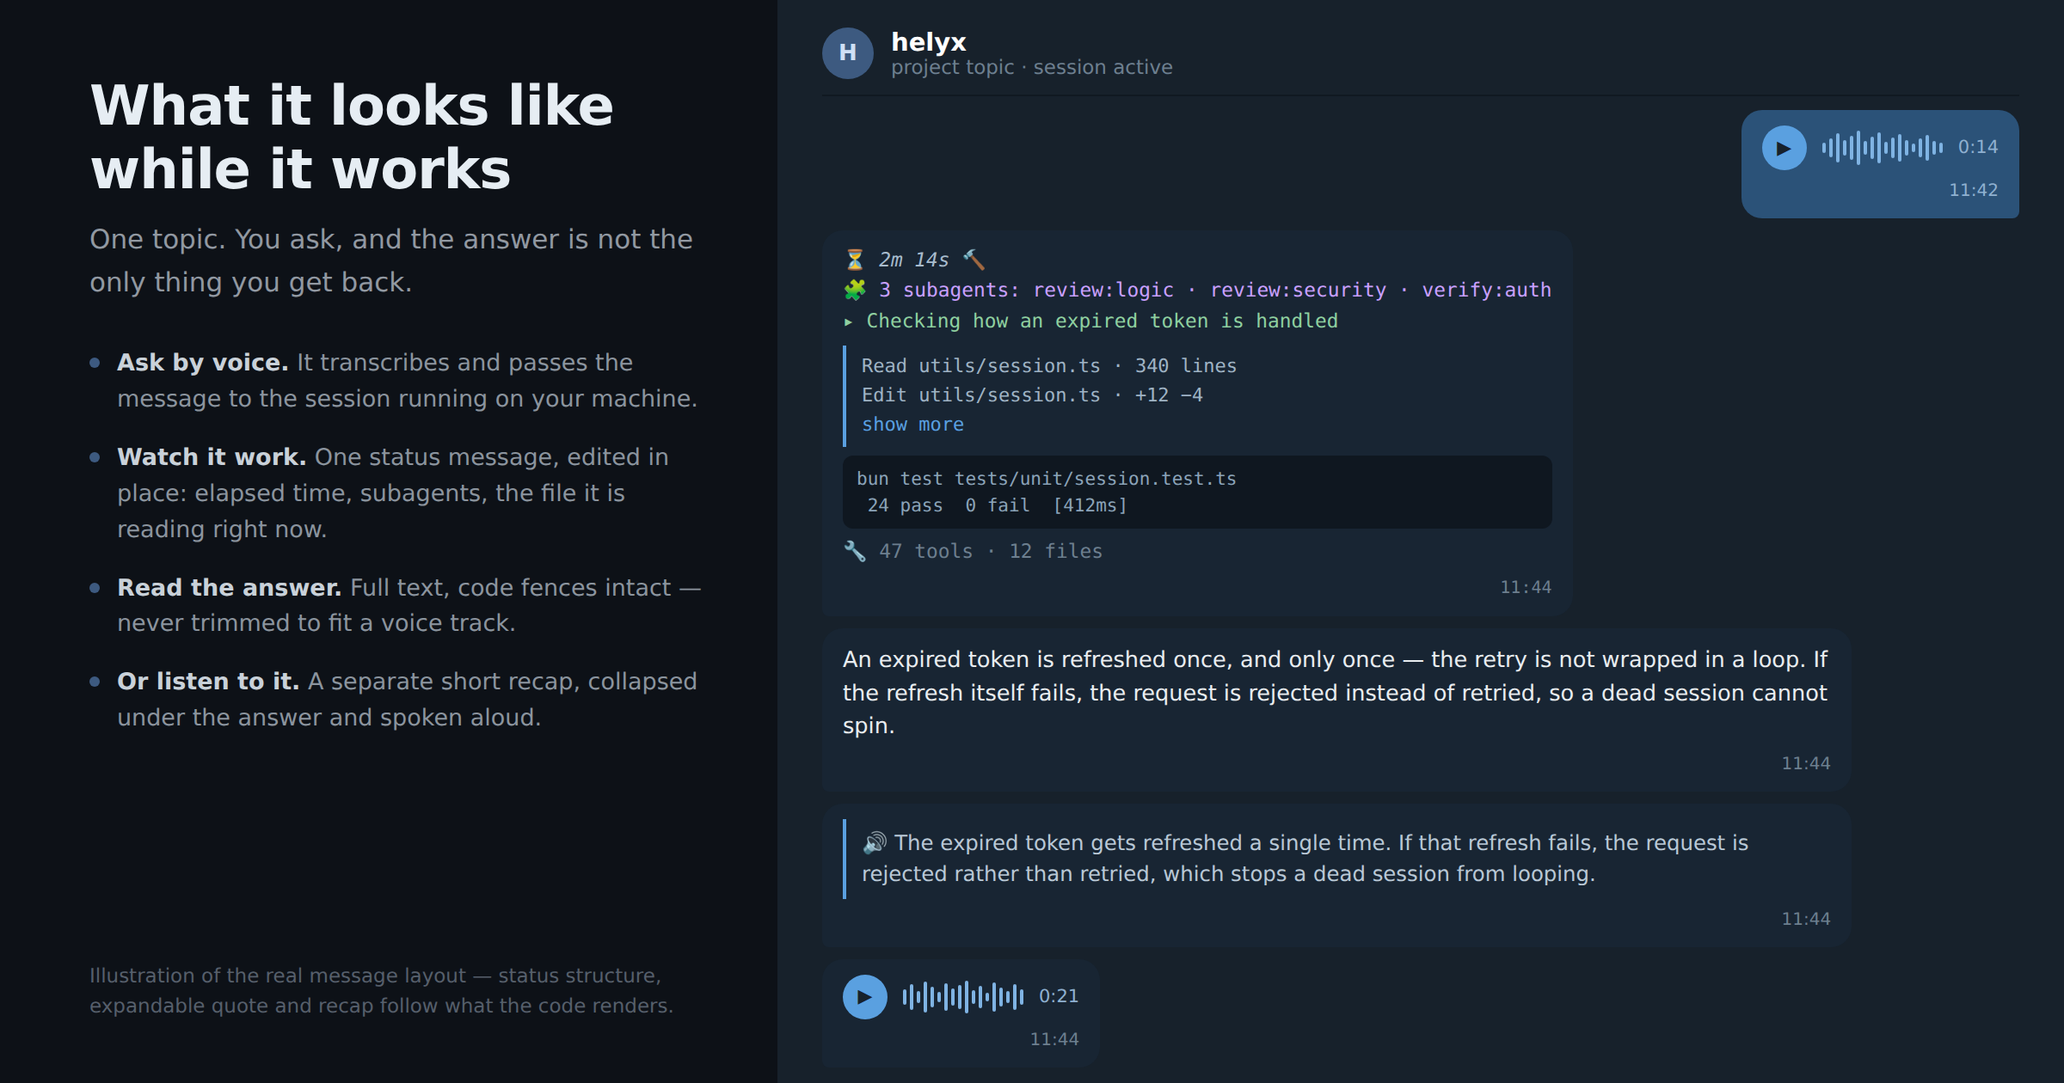
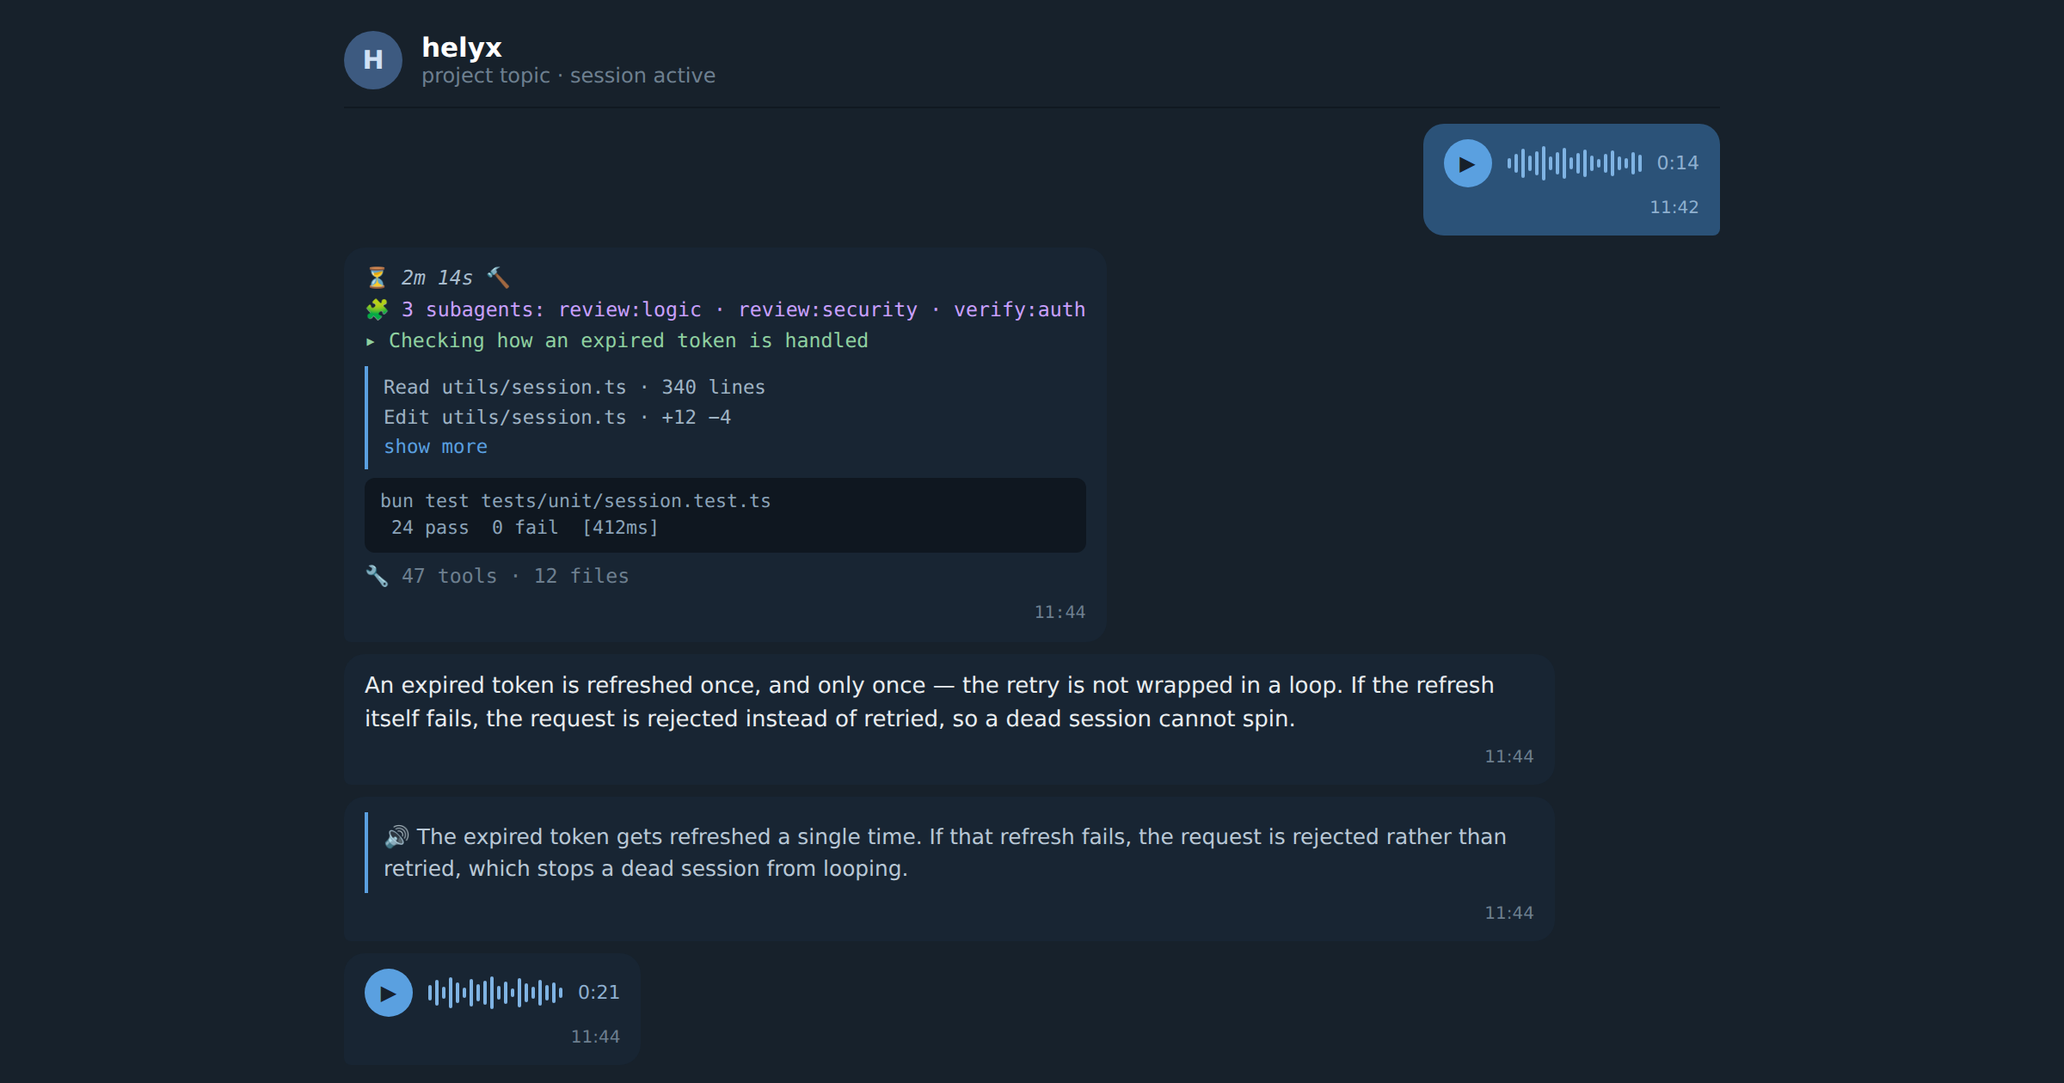
content: the interface, without the caption written next to it
The Telegram frame carried an essay column that repeated the post it ships
with. An image beside a post that says the same words is the post twice, so the
column is gone and the frame is the topic full-bleed — the words belong to the
text, the picture belongs to the interface.

Adds 05-control, the frame the set was missing. The two things that separate
this from a bot wrapper are memory the next session recalls on its own, and a
tool call you can refuse from your phone; neither was visible anywhere. It shows
a recalled decision, a 🔐 Allow? prompt over a destructive migration with the
real ✅ Yes / ✅ Always / ❌ No row from channel/permissions.ts, the refusal, and
the session rewriting the migration additively because of it.

The mockup disclosure moves off the images and into the README, where it is
stated more plainly than before: these two are drawn, a real screenshot is
better even when it is scruffier, and a mockup must never be captioned as a
screenshot.

diff --git a/content/linkedin/assets/src/03-telegram.html b/content/linkedin/assets/src/03-telegram.html
@@ -1,77 +1,41 @@
 <!doctype html>
 <html><head><meta charset="utf-8"><link rel="stylesheet" href="_base.css"><style>
-  /* An illustration of the Telegram topic, not a screenshot of one. The
-     layout, the status message structure and the recap quote follow what
-     utils/status-render.ts and channel/tools.ts actually produce. */
-  body { padding:0; flex-direction:row; background:#0d1117; }
-  .left { width:452px; padding:44px 36px 36px 52px; display:flex; flex-direction:column; }
-  h1 { font-size:32px; margin-bottom:10px; line-height:1.15; }
-  .sub { font-size:15.5px; line-height:1.6; margin-bottom:24px; }
-  .pt { font-size:13.5px; color:#8b949e; line-height:1.55; margin-bottom:13px; padding-left:16px; position:relative; }
-  .pt:before { content:""; position:absolute; left:0; top:7px; width:6px; height:6px; border-radius:50%; background:#3d5a80; }
-  .pt b { color:#c9d1d9; font-weight:600; }
-  .note { margin-top:auto; font-size:11.5px; color:#565f6b; line-height:1.5; }
+  /* The topic, full bleed and nothing else. The words belong to the post that
+     carries the image; repeating them here reads as saying it twice.
+     The message structure follows utils/status-render.ts and channel/tools.ts:
+     status header, subagent line, expandable quote, stats line, and the recap
+     as a collapsed quote under the answer. */
+  body { padding:0; background:#17212b; display:block; }
+  .wrap { width:1200px; height:630px; padding:18px 200px; display:flex; flex-direction:column; gap:7px; overflow:hidden; }
 
-  .phone { flex:1; background:#17212b; padding:16px 26px; display:flex; flex-direction:column; gap:7px; overflow:hidden; }
-  .tbar { display:flex; align-items:center; gap:10px; padding-bottom:9px; border-bottom:1px solid #101921; margin-bottom:1px; }
-  .av { width:30px; height:30px; border-radius:50%; background:#3d5a80; display:flex; align-items:center; justify-content:center; font-size:13px; font-weight:600; color:#cfe0f5; }
-  .tname { font-size:14.5px; font-weight:600; color:#fff; }
-  .tsub { font-size:11.5px; color:#6d7f8f; }
+  .tbar { display:flex; align-items:center; gap:11px; padding-bottom:10px; border-bottom:1px solid #101921; margin-bottom:2px; }
+  .av { width:34px; height:34px; border-radius:50%; background:#3d5a80; display:flex; align-items:center; justify-content:center; font-size:15px; font-weight:600; color:#cfe0f5; }
+  .tname { font-size:15.5px; font-weight:600; color:#fff; }
+  .tsub { font-size:12px; color:#6d7f8f; }
 
-  .msg { max-width:86%; border-radius:12px; padding:9px 12px; font-size:12.8px; line-height:1.5; color:#e9edf0; }
+  .msg { max-width:88%; border-radius:12px; padding:9px 12px; font-size:13px; line-height:1.5; color:#e9edf0; }
   .in  { background:#182533; align-self:flex-start; border-bottom-left-radius:4px; }
   .out { background:#2b5278; align-self:flex-end; border-bottom-right-radius:4px; }
   .meta { font-size:10px; color:#6d7f8f; margin-top:4px; text-align:right; }
   .out .meta { color:#8fb0d0; }
 
   .voice { display:flex; align-items:center; gap:9px; }
-  .play { width:26px; height:26px; border-radius:50%; background:#5aa0e0; color:#17212b; display:flex; align-items:center; justify-content:center; font-size:11px; flex:none; }
+  .play { width:28px; height:28px; border-radius:50%; background:#5aa0e0; color:#17212b; display:flex; align-items:center; justify-content:center; font-size:12px; flex:none; }
   .wave { display:flex; align-items:center; gap:2px; height:20px; }
   .wave i { width:2px; background:#7fb3e3; border-radius:1px; display:block; }
-  .dur { font-size:10.5px; color:#8fb0d0; }
+  .dur { font-size:11px; color:#8fb0d0; }
 
-  .status { font-family:ui-monospace,Menlo,Consolas,monospace; font-size:11.4px; line-height:1.55; }
-  .status .hdr { color:#e9edf0; }
+  .status { font-family:ui-monospace,Menlo,Consolas,monospace; font-size:11.6px; line-height:1.58; }
   .status .it { font-style:italic; color:#a8bccd; }
   .status .ag { color:#c9a0ff; }
   .status .sm { color:#8fd0a0; }
-  .quote { border-left:2px solid #5aa0e0; padding:4px 0 4px 9px; margin:5px 0; color:#9fb3c4; font-size:11px; line-height:1.55; }
+  .quote { border-left:2px solid #5aa0e0; padding:4px 0 4px 9px; margin:5px 0; color:#9fb3c4; font-size:11.2px; line-height:1.55; }
   .quote .more { color:#5aa0e0; }
   .stats { color:#6d7f8f; }
-  .pre { background:#0f1720; border-radius:6px; padding:6px 8px; margin:5px 0; color:#8ba3b8; font-size:10.5px; line-height:1.45; white-space:pre; overflow:hidden; }
-  .recap { border-left:2px solid #5aa0e0; padding:5px 0 5px 9px; color:#b9c8d6; font-size:12.2px; line-height:1.5; }
+  .pre { background:#0f1720; border-radius:6px; padding:6px 9px; margin:5px 0; color:#8ba3b8; font-size:10.8px; line-height:1.45; white-space:pre; }
+  .recap { border-left:2px solid #5aa0e0; padding:5px 0 5px 9px; color:#b9c8d6; font-size:12.4px; line-height:1.5; }
 </style></head><body>
-  <div class="left">
-    <h1><span data-lang="en">What it looks like<br>while it works</span><span data-lang="ru">Как это выглядит<br>во время работы</span></h1>
-    <div class="sub">
-      <span data-lang="en">One topic. You ask, and the answer is not the only thing you get back.</span>
-      <span data-lang="ru">Один топик. Ты спрашиваешь — и получаешь не только ответ.</span>
-    </div>
-
-    <div class="pt">
-      <span data-lang="en"><b>Ask by voice.</b> It transcribes and passes the message to the session running on your machine.</span>
-      <span data-lang="ru"><b>Спроси голосом.</b> Он расшифрует и передаст сообщение сессии, работающей на твоей машине.</span>
-    </div>
-    <div class="pt">
-      <span data-lang="en"><b>Watch it work.</b> One status message, edited in place: elapsed time, subagents, the file it is reading right now.</span>
-      <span data-lang="ru"><b>Смотри за работой.</b> Один статус, который редактируется на месте: время, субагенты, файл, который читается прямо сейчас.</span>
-    </div>
-    <div class="pt">
-      <span data-lang="en"><b>Read the answer.</b> Full text, code fences intact — never trimmed to fit a voice track.</span>
-      <span data-lang="ru"><b>Читай ответ.</b> Полный текст, код не тронут — его никогда не режут ради голосовой дорожки.</span>
-    </div>
-    <div class="pt">
-      <span data-lang="en"><b>Or listen to it.</b> A separate short recap, collapsed under the answer and spoken aloud.</span>
-      <span data-lang="ru"><b>Или послушай.</b> Отдельный короткий пересказ, свёрнутый под ответом и озвученный.</span>
-    </div>
-
-    <div class="note">
-      <span data-lang="en">Illustration of the real message layout — status structure, expandable quote and recap follow what the code renders.</span>
-      <span data-lang="ru">Иллюстрация реальной раскладки сообщений — структура статуса, раскрывающаяся цитата и пересказ соответствуют тому, что рисует код.</span>
-    </div>
-  </div>
-
-  <div class="phone">
+  <div class="wrap">
     <div class="tbar">
       <div class="av">H</div>
       <div>
@@ -84,7 +48,7 @@
       <div class="voice">
         <div class="play">&#9654;</div>
         <div class="wave">
-          <i style="height:6px"></i><i style="height:11px"></i><i style="height:17px"></i><i style="height:9px"></i><i style="height:14px"></i><i style="height:20px"></i><i style="height:8px"></i><i style="height:13px"></i><i style="height:18px"></i><i style="height:7px"></i><i style="height:12px"></i><i style="height:16px"></i><i style="height:9px"></i><i style="height:5px"></i><i style="height:11px"></i><i style="height:15px"></i><i style="height:8px"></i><i style="height:6px"></i>
+          <i style="height:6px"></i><i style="height:11px"></i><i style="height:17px"></i><i style="height:9px"></i><i style="height:14px"></i><i style="height:20px"></i><i style="height:8px"></i><i style="height:13px"></i><i style="height:18px"></i><i style="height:7px"></i><i style="height:12px"></i><i style="height:16px"></i><i style="height:9px"></i><i style="height:5px"></i><i style="height:11px"></i><i style="height:15px"></i><i style="height:8px"></i><i style="height:6px"></i><i style="height:13px"></i><i style="height:10px"></i>
         </div>
         <div class="dur">0:14</div>
       </div>
@@ -92,7 +56,7 @@
     </div>
 
     <div class="msg in status">
-      <div class="hdr">&#9203; <span class="it">2m 14s</span> &#128296;</div>
+      <div>&#9203; <span class="it">2m 14s</span> &#128296;</div>
       <div class="ag">&#129513; <span data-lang="en">3 subagents: review:logic &middot; review:security &middot; verify:auth</span><span data-lang="ru">3 агента: review:logic &middot; review:security &middot; verify:auth</span></div>
       <div class="sm">&#9656; <span data-lang="en">Checking how an expired token is handled</span><span data-lang="ru">Проверяю обработку истёкшего токена</span></div>
       <div class="quote">
@@ -121,7 +85,7 @@
       <div class="voice">
         <div class="play">&#9654;</div>
         <div class="wave">
-          <i style="height:9px"></i><i style="height:15px"></i><i style="height:7px"></i><i style="height:18px"></i><i style="height:12px"></i><i style="height:6px"></i><i style="height:16px"></i><i style="height:10px"></i><i style="height:14px"></i><i style="height:19px"></i><i style="height:8px"></i><i style="height:13px"></i><i style="height:5px"></i><i style="height:17px"></i><i style="height:11px"></i><i style="height:7px"></i><i style="height:15px"></i><i style="height:9px"></i>
+          <i style="height:9px"></i><i style="height:15px"></i><i style="height:7px"></i><i style="height:18px"></i><i style="height:12px"></i><i style="height:6px"></i><i style="height:16px"></i><i style="height:10px"></i><i style="height:14px"></i><i style="height:19px"></i><i style="height:8px"></i><i style="height:13px"></i><i style="height:5px"></i><i style="height:17px"></i><i style="height:11px"></i><i style="height:7px"></i><i style="height:15px"></i><i style="height:9px"></i><i style="height:12px"></i><i style="height:6px"></i>
         </div>
         <div class="dur">0:21</div>
       </div>

diff --git a/content/linkedin/assets/src/05-control.html b/content/linkedin/assets/src/05-control.html
@@ -1,0 +1,92 @@
+<!doctype html>
+<html><head><meta charset="utf-8"><link rel="stylesheet" href="_base.css"><style>
+  /* The second frame: the two things that separate this from a bot wrapper —
+     a tool call you can refuse from the phone, and memory the next session
+     picks up on its own.
+
+     The permission message follows channel/permissions.ts: a "🔐 Allow?" header,
+     the tool description, the diff in a code block, and one row of three
+     buttons — ✅ Yes / ✅ Always / ❌ No. */
+  body { padding:0; background:#17212b; display:block; }
+  .wrap { width:1200px; height:630px; padding:13px 170px; display:flex; flex-direction:column; gap:6px; overflow:hidden; }
+
+  .tbar { display:flex; align-items:center; gap:11px; padding-bottom:8px; border-bottom:1px solid #101921; margin-bottom:0; }
+  .av { width:34px; height:34px; border-radius:50%; background:#3d5a80; display:flex; align-items:center; justify-content:center; font-size:15px; font-weight:600; color:#cfe0f5; }
+  .tname { font-size:15.5px; font-weight:600; color:#fff; }
+  .tsub { font-size:12px; color:#6d7f8f; }
+
+  .msg { max-width:88%; border-radius:12px; padding:9px 13px; font-size:13.6px; line-height:1.46; color:#e9edf0; background:#182533; align-self:flex-start; border-bottom-left-radius:4px; }
+  .out { background:#2b5278; align-self:flex-end; border-bottom-right-radius:4px; }
+  .meta { font-size:10px; color:#6d7f8f; margin-top:4px; text-align:right; }
+  .out .meta { color:#8fb0d0; }
+
+  .lock { font-weight:600; margin-bottom:7px; }
+  .desc { font-family:ui-monospace,Menlo,Consolas,monospace; font-size:12px; color:#c6d2dd; margin-bottom:6px; }
+  .pre { background:#0f1720; border-radius:6px; padding:7px 9px; margin-bottom:2px; font-family:ui-monospace,Menlo,Consolas,monospace; font-size:11px; line-height:1.5; white-space:pre; color:#8ba3b8; }
+  .pre .add { color:#7ee787; } .pre .del { color:#ff9492; } .pre .hd { color:#6d7f8f; }
+
+  .kb { display:flex; gap:6px; margin-top:8px; }
+  .btn { flex:1; text-align:center; background:#233648; border-radius:8px; padding:8px 6px; font-size:12.5px; color:#cfe0f5; }
+  .btn.no { background:#3a2830; color:#ffb3b0; box-shadow:0 0 0 1.5px #6b3a42 inset; }
+
+  .mem { border-left:2px solid #bc8cff; padding:5px 0 5px 9px; color:#c8b8e0; font-size:13.4px; line-height:1.52; }
+  .status { font-family:ui-monospace,Menlo,Consolas,monospace; font-size:12.2px; line-height:1.58; }
+  .status .it { font-style:italic; color:#a8bccd; }
+  .status .sm { color:#8fd0a0; }
+  .tap { align-self:flex-end; font-size:11px; color:#6d7f8f; margin:-2px 4px 0 0; }
+</style></head><body>
+  <div class="wrap">
+    <div class="tbar">
+      <div class="av">H</div>
+      <div>
+        <div class="tname">helyx</div>
+        <div class="tsub"><span data-lang="en">project topic &middot; waiting for you</span><span data-lang="ru">топик проекта &middot; ждёт тебя</span></div>
+      </div>
+    </div>
+
+    <div class="msg">
+      <div class="mem">&#129504; <span data-lang="en">Recalled from memory: the queue stays in Postgres — Redis was considered in March and rejected, the restart guarantee is the reason.</span><span data-lang="ru">Вспомнил из памяти: очередь остаётся в Postgres — Redis рассматривали в марте и отклонили, причина в гарантии на рестарте.</span></div>
+      <div class="meta">14:07</div>
+    </div>
+
+    <div class="msg">
+      <div class="lock">&#128272; <span data-lang="en">Allow?</span><span data-lang="ru">Allow?</span></div>
+      <div class="desc">Edit &middot; memory/db.ts</div>
+      <div class="pre"><span class="hd">@@ -412,7 +412,7 @@</span>
+<span class="del">-  await sql`DROP TABLE message_queue`;</span>
+<span class="add">+  await sql`ALTER TABLE message_queue</span>
+<span class="add">+    ADD COLUMN reply_context jsonb`;</span></div>
+      <div class="kb">
+        <div class="btn">&#9989; Yes</div>
+        <div class="btn">&#9989; Always</div>
+        <div class="btn no">&#10060; No</div>
+      </div>
+      <div class="meta">14:08</div>
+    </div>
+
+    <div class="tap"><span data-lang="en">you tapped ❌ No</span><span data-lang="ru">ты нажал ❌ No</span></div>
+
+    <div class="msg">
+      <span data-lang="en">Understood — not dropping the table. Rewriting it as an additive migration so the queued messages survive the change.</span>
+      <span data-lang="ru">Понял — таблицу не роняю. Переписываю миграцию как аддитивную, чтобы сообщения в очереди пережили изменение.</span>
+      <div class="meta">14:08</div>
+    </div>
+
+    <div class="msg out">
+      <span data-lang="en">and add it to the changelog</span>
+      <span data-lang="ru">и добавь это в changelog</span>
+      <div class="meta">14:09</div>
+    </div>
+
+    <div class="msg status">
+      <div>&#9203; <span class="it">8s</span> &#128221;</div>
+      <div class="sm">&#9656; <span data-lang="en">Writing the migration note into CHANGELOG.md</span><span data-lang="ru">Пишу запись о миграции в CHANGELOG.md</span></div>
+      <div class="meta">14:09</div>
+    </div>
+  </div>
+
+<script>
+  var lang = new URLSearchParams(location.search).get("lang") === "ru" ? "ru" : "en";
+  document.querySelectorAll("[data-lang='" + lang + "']").forEach(function (el) { el.style.display = "inline"; });
+</script>
+</body></html>

diff --git a/content/linkedin/README.md b/content/linkedin/README.md
@@ -36,15 +36,29 @@ re-encoding.
 |---|---|
 | `01-architecture` | Telegram → queue → sessions, and what lives on the host |
 | `02-features` | Six capabilities, one card each |
-| `03-telegram` | What a topic looks like mid-turn: voice in, live status, answer, spoken recap |
+| `03-telegram` | A topic mid-turn: voice in, live status, answer, spoken recap |
 | `04-numbers` | Counts taken from the repository, and the stack |
+| `05-control` | Memory recalled unprompted, and a tool call refused from the phone |
 
-`03-telegram` is an **illustration**, not a screenshot. The message structure in
-it — the status header, the `🧩` subagent line, the expandable quote, the stats
-line, the `🔊` recap as a collapsed quote — follows what `utils/status-render.ts`
-and `channel/tools.ts` actually render, but the conversation in it is written for
-the picture. If you want a real screenshot, take one from a live topic and drop
-it in beside this file; do not relabel this one.
+`03-telegram` and `05-control` carry no explanatory column: the words belong to
+the post the image ships with, and saying them twice reads as a slideshow of the
+caption. They are the interface and nothing else.
+
+### These two are mockups
+
+`03-telegram` and `05-control` are **drawn, not captured**. The message structure
+is real — the status header, the `🧩` subagent line, the expandable quote, the
+stats line, the `🔊` recap as a collapsed quote, and the `🔐 Allow?` prompt with
+its `✅ Yes / ✅ Always / ❌ No` row all follow what `utils/status-render.ts`,
+`channel/tools.ts` and `channel/permissions.ts` actually render — but the
+conversations in them are written.
+
+**A real screenshot beats both of them at launch**, even a scruffier one: an
+audience can tell the difference, and a drawn interface invites the question of
+what else was drawn. Take one from a live topic and put it beside these; the
+mockups are the fallback for frames a screenshot cannot stage, not the preferred
+option. Whatever you do, do not caption a mockup as a screenshot — the honesty
+is worth more than the polish.
 
 ## Re-rendering
 
@@ -54,7 +68,7 @@ and forgotten in Russian.
 
 ```bash
 CHROME=~/.cache/ms-playwright/chromium-*/chrome-linux64/chrome
-for f in 01-architecture 02-features 03-telegram 04-numbers; do
+for f in 01-architecture 02-features 03-telegram 04-numbers 05-control; do
   for l in en ru; do
     $CHROME --headless --disable-gpu --no-sandbox --hide-scrollbars \
       --force-device-scale-factor=2 --window-size=1200,630 \
